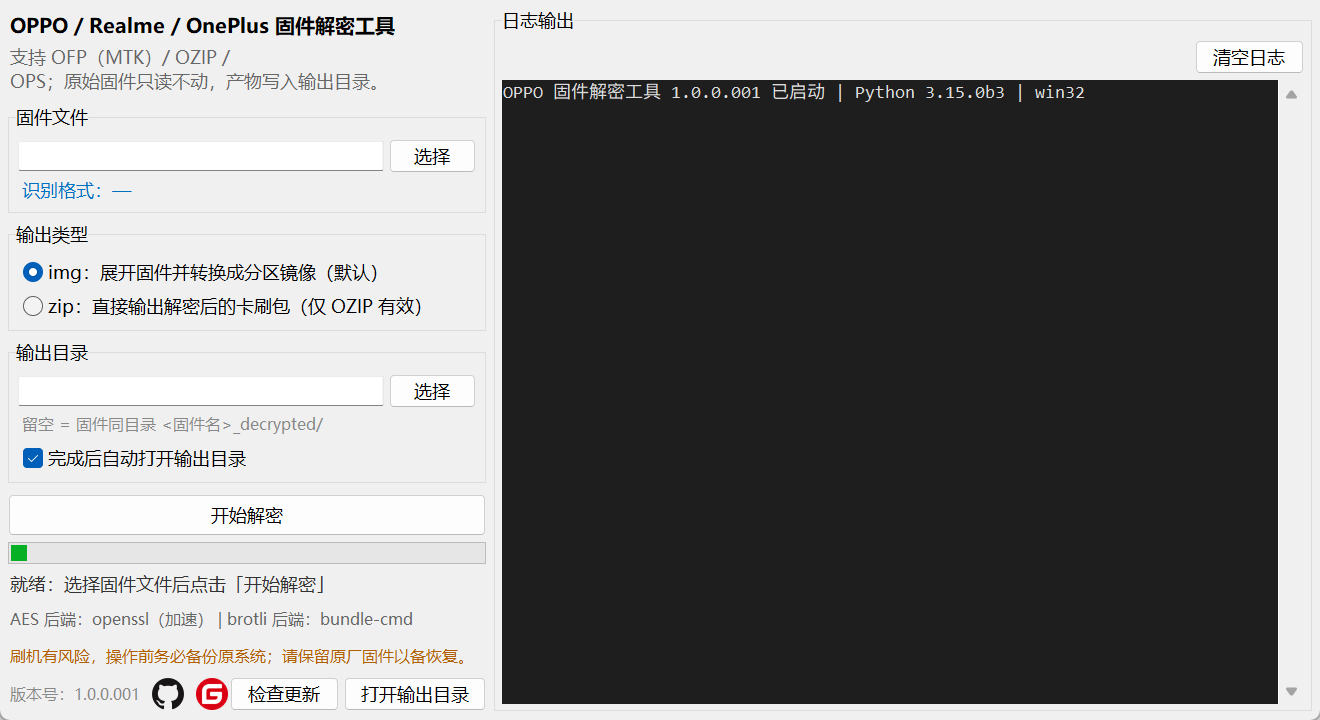
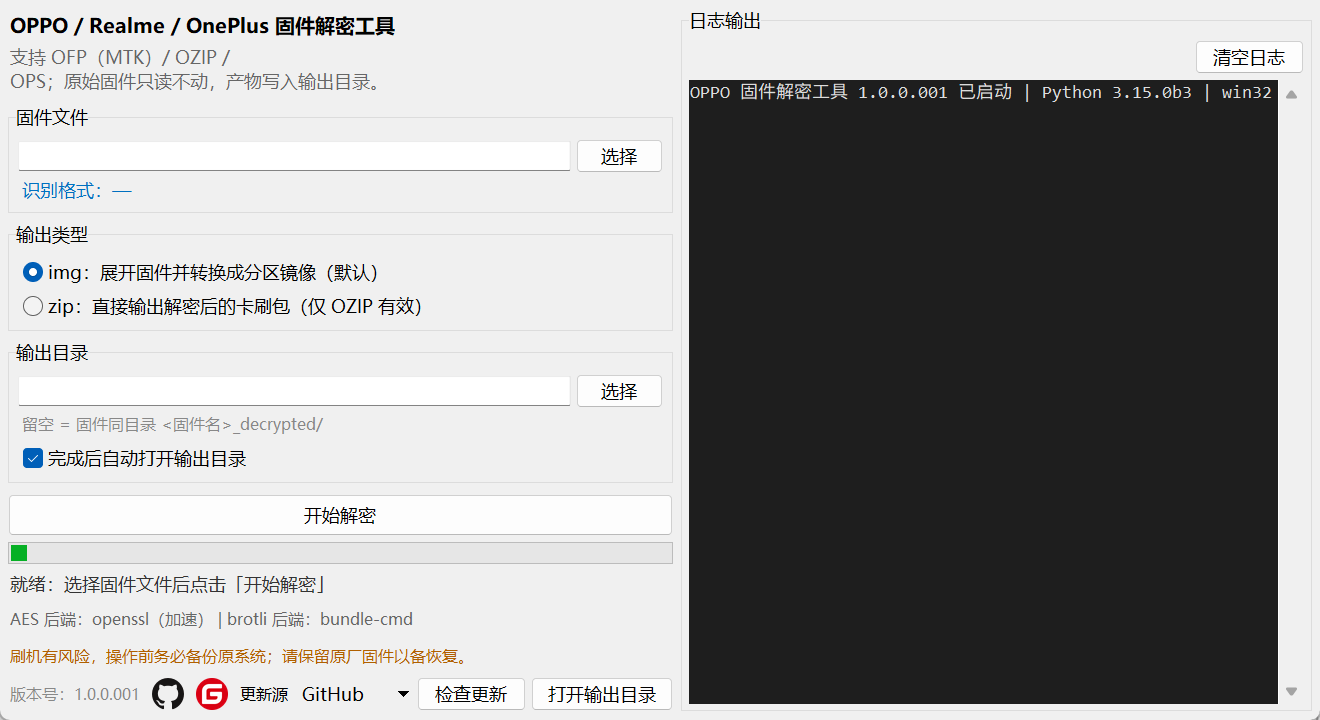
feat: 启用 GitHub/Gitee 双更新源并同步界面与文档

diff --git a/oppo-firmware-decrypt/app/updater.py b/oppo-firmware-decrypt/app/updater.py
@@ -3,12 +3,10 @@
 
 职责：网络请求、版本解析、发行说明拉取、markdown 渲染；GUI 只负责窗口与交互。
 与上游差异：
-  1. 更新源地址暂留空（GitHub 仓库尚未创建），UPDATE_ENABLED=False 时
-     fetch_update_info() 直接返回「未配置更新源」，不发任何网络请求；
+  1. GitHub 更新源已配置并启用；Gitee 地址也已按预留路径填写，仓库创建后再验证；
   2. 去掉模块级 tkinter 依赖（END 用字符串 'end'，与 tkinter.END 等价），
      让 CLI 在无 tkinter 的环境也能 import 本模块；
-  3. 仓库建立后只需填写下方 UPDATE_SOURCES 的 raw / api / contents_api，
-     并把 UPDATE_ENABLED 改为 True，其余逻辑无需改动。
+  3. 版本与下载地址来自仓库根目录 latest_version.txt，发行说明来自 Releases API。
 """
 import base64
 import json
@@ -19,11 +17,11 @@ import webbrowser
 # tkinter.END 的等价常量（避免模块级依赖 tkinter）
 END = 'end'
 
-# 更新检查总开关：仓库创建并填好地址后再打开
-UPDATE_ENABLED = False
+# 更新检查总开关：GitHub / Gitee 地址均已配置；Gitee 仓库待创建
+UPDATE_ENABLED = True
 
 # ============================================================
-# 更新源配置（创建 GitHub / Gitee 仓库后填写）
+# 更新源配置（GitHub 已启用；Gitee 地址已预留，仓库待创建）
 #   raw           latest_version.txt 的原始文件地址
 #   api           发行版 API 模板（{tag} 会被替换为版本号）
 #   contents_api  GitHub contents API（可选，绕过 CDN 缓存）
@@ -31,14 +29,14 @@ UPDATE_ENABLED = False
 # ============================================================
 UPDATE_SOURCES = {
     'GitHub': {
-        'raw': '',
-        'api': '',
-        'contents_api': '',
+        'raw': 'https://raw.githubusercontent.com/LJY-33684/oppo-firmware-decrypt/main/latest_version.txt',
+        'api': 'https://api.github.com/repos/LJY-33684/oppo-firmware-decrypt/releases/tags/{tag}',
+        'contents_api': 'https://api.github.com/repos/LJY-33684/oppo-firmware-decrypt/contents/latest_version.txt?ref=main',
         'url_key': 'update_url_1',
     },
     'Gitee': {
-        'raw': '',
-        'api': '',
+        'raw': 'https://gitee.com/Q3368436451/oppo-firmware-decrypt/raw/main/latest_version.txt',
+        'api': 'https://gitee.com/api/v5/repos/Q3368436451/oppo-firmware-decrypt/releases/tags/{tag}',
         'url_key': 'update_url_2',
     },
 }

diff --git a/oppo-firmware-decrypt/app/gui.py b/oppo-firmware-decrypt/app/gui.py
@@ -109,6 +109,7 @@ class App(tk.Tk):
         self.format_var = tk.StringVar(value='识别格式：—')
         self.backend_var = tk.StringVar(value='AES 后端：检测中… | brotli 后端：检测中…')
         self.open_after_var = tk.BooleanVar(value=True)
+        self.update_source = tk.StringVar(value=updater.DEFAULT_SOURCE)
 
         self._build_ui()
         self.protocol('WM_DELETE_WINDOW', self._on_close)
@@ -228,6 +229,15 @@ class App(tk.Tk):
         self.update_btn = ttk.Button(bottom, text='检查更新', width=9,
                                      command=self._check_update)
         self.update_btn.pack(side='right', padx=(0, 5))
+
+        # 更新源切换：GitHub / Gitee（地址已预留，Gitee 仓库待创建）
+        src_frame = ttk.Frame(bottom)
+        src_frame.pack(side='right', padx=(8, 0))
+        ttk.Label(src_frame, text='更新源', font=('Microsoft YaHei', 8)).pack(side='left')
+        self.update_source_menu = ttk.OptionMenu(
+            src_frame, self.update_source, updater.DEFAULT_SOURCE, 'GitHub', 'Gitee')
+        self.update_source_menu.configure(width=7)
+        self.update_source_menu.pack(side='left')
 
         # 风险提示（移植工具同款橙色提示，放在底部按钮上方）
         self.risk_label = ttk.Label(
@@ -418,10 +428,11 @@ class App(tk.Tk):
     # ---------------- 检查更新 ----------------
     def _check_update(self):
         self.update_btn.configure(text='检查更新中…', state='disabled')
-        threading.Thread(target=self._update_worker, daemon=True).start()
+        src = self.update_source.get()          # tkinter 变量只能在主线程读取
+        threading.Thread(target=self._update_worker, args=(src,), daemon=True).start()
 
-    def _update_worker(self):
-        result = updater.fetch_update_info(updater.DEFAULT_SOURCE)
+    def _update_worker(self, source):
+        result = updater.fetch_update_info(source)
         self.q.put(('update', result))
 
     def _on_update_result(self, result):

diff --git a/README.md b/README.md
@@ -91,12 +91,13 @@ GUI and CLI, and never modifies the source firmware.
 
 - **7. 界面细节 / UI details**
   - 底部版本号旁提供 GitHub / Gitee 图标，点击用系统浏览器打开
+  - 底部「更新源」下拉框支持 GitHub / Gitee 双源切换，默认 GitHub
   - 保留移植工具同款橙色刷机风险提示
   - 圆形蒙板窗口图标（多尺寸 ICO，圆外透明）
 
 - **8. 自检 / Self-test**
   - 15 项合成样本自检：AES 双后端、brotli、sdat2img、fsutil、单实例锁、
-    格式识别、OZIP/OFP/OPS 解密、CLI 契约、更新未配置行为、GUI 冒烟与端到端
+    格式识别、OZIP/OFP/OPS 解密、CLI 契约、更新源配置、GUI 冒烟与端到端
 
 <a name="formats"></a>
 ## 支持格式 / Supported Formats
@@ -119,7 +120,7 @@ oppo-firmware-decrypt/
 ├─ README.md                 本文件（仓库说明）
 ├─ LICENSE                   GPL-3.0 全文
 ├─ .gitignore                运行产物 / 缓存忽略规则
-├─ latest_version.txt        更新检查版本文件（更新地址暂空）
+├─ latest_version.txt        更新检查版本文件（GitHub Release 下载地址）
 └─ oppo-firmware-decrypt/    源码本体（发行 zip 的根目录即此目录）
    ├─ main.py                GUI 入口
    ├─ decrypt_cli.py         CLI 入口（外部壳调用）
@@ -128,7 +129,7 @@ oppo-firmware-decrypt/
    │  ├─ gui.py              轻量 Tk 界面（Per-Monitor V2 DPI 感知）
    │  ├─ singleton.py        单实例锁（跳转已运行窗口 / 清除残留锁）
    │  ├─ icons/              窗口图标 app.ico/app.png + GitHub / Gitee 图标
-   │  ├─ updater.py          更新检查（地址为空，默认关闭）
+   │  ├─ updater.py          更新检查（GitHub / Gitee 双源，Gitee 仓库待建）
    │  ├─ common.py           CLI / GUI 共用逻辑
    │  ├─ version.py          版本号唯一真源
    │  ├─ core/               解密核心（OFP / OZIP / OPS、brotli、sdat2img、pyaes）
@@ -163,6 +164,9 @@ run.bat          # 或：python main.py
 2. 选择输出类型：img（默认）或 zip（仅 OZIP）
 3. 选择输出目录；留空则输出到固件同级 `<固件名>_decrypted/`
 4. 点击「开始解密」，右侧日志实时显示进度
+
+底部「检查更新」支持 GitHub / Gitee 双源切换（「更新源」下拉框，默认 GitHub）；
+Gitee 仓库创建前该源不可用，先用 GitHub 源即可。
 
 ![主界面](oppo-firmware-decrypt/docs/gui-main.png)
 
@@ -229,18 +233,21 @@ python decrypt_cli.py --version
 <a name="update"></a>
 ## 更新检查 / Update Check
 
-更新模块复用自 mtk-garbage-porttool，但当前 **`UPDATE_ENABLED = False`、更新地址全部留空**。
-点击「检查更新」只提示「更新源尚未配置」，不会发出任何网络请求。
-
-GitHub 仓库已创建；待发布 Release 资产后，填写 `latest_version.txt` 的 `update_url_1` /
-`update_url_2`，并在 `app/updater.py` 的 `UPDATE_SOURCES` 填入 raw / api / contents_api 地址，
-把开关改为 `True` 即可启用。启用前不会产生任何后台网络请求。
+更新模块复用自 mtk-garbage-porttool：网络请求、`latest_version.txt` 解析、发行说明 markdown
+渲染与 GUI 弹窗全部保留。当前 **`UPDATE_ENABLED = True`，GitHub 更新源已配置**：
+`raw` 指向仓库 `main` 分支的 `latest_version.txt`，`api` 指向 Releases API，
+`contents_api` 用于绕过 CDN 缓存；`latest_version.txt` 的 `update_url_1` 已指向
+GitHub `1.0.0.001` Release 资产，`update_url_2` 已按 Gitee 同版本路径预留。GUI 底部
+「更新源」下拉框可在 GitHub / Gitee 间切换，默认 GitHub；Gitee 仓库尚未创建，建仓前该源不可用。
 
 <a name="release"></a>
 ## 发行包 / Release Package
 
 发行资产命名：`oppo-firmware-decrypt-1.0.0.001.zip`，zip 内根目录为 `oppo-firmware-decrypt/`，
-解压后可直接 `run.bat` 启动。打包命令：
+解压后可直接 `run.bat` 启动。当前发布页：
+[`1.0.0.001`](https://github.com/LJY-33684/oppo-firmware-decrypt/releases/tag/1.0.0.001)。
+
+打包命令：
 
 ```bash
 cd oppo-firmware-decrypt
@@ -273,8 +280,9 @@ A：未指定时在固件同目录 `<固件名>_decrypted/`；目录已存在且
 **Q：为什么选择 zip 但 OFP / OPS 仍输出 img？**
 A：只有 OZIP 有卡刷包形态；OFP / OPS 是分区镜像包，选择 zip 会提示后按 img 处理。
 
-**Q：检查更新提示“更新源尚未配置”？**
-A：这是预期行为。更新地址暂未填写，开关为关闭状态，不会发出网络请求。
+**Q：检查更新提示网络错误 / 超时？**
+A：更新检查现在支持 GitHub / Gitee 双源，默认 GitHub。若网络无法访问对应站点，会提示网络错误或超时；
+Gitee 地址已预留，但仓库尚未创建，建仓前切换过去会失败，先用 GitHub 源即可。
 
 **Q：重复启动提示已有实例，但我确认没开？**
 A：上次进程可能被强制结束留下状态锁。点「清除状态锁」继续，或直接删除源码根目录
@@ -303,7 +311,7 @@ risk; the developers assume no responsibility for damage, data loss, or warranty
   - 单实例锁：跳转已运行窗口 / 清除残留锁 / 强杀残留自动接管
   - 底部 GitHub / Gitee 图标与橙色刷机风险提示
   - 圆形蒙板多尺寸窗口 ICO
-  - 更新检查框架复用，地址留空、默认关闭
+  - 更新检查接入 GitHub Release，预先填好 Gitee 同版本地址，GUI 支持双源切换
 
 <a name="contact"></a>
 ## 联系 / Contact

diff --git a/oppo-firmware-decrypt/README.md b/oppo-firmware-decrypt/README.md
@@ -74,7 +74,7 @@ oppo-firmware-decrypt/（源码子目录）
 │  ├─ gui.py                轻量 Tk 界面（Per-Monitor V2 DPI 感知）
 │  ├─ singleton.py          单实例锁（跳转已运行窗口 / 清除残留锁）
 │  ├─ icons/                窗口图标 app.ico/app.png + GitHub / Gitee 图标
-│  ├─ updater.py            更新检查模块（地址暂空，见下）
+│  ├─ updater.py            更新检查模块（GitHub / Gitee 双源，见下）
 │  ├─ common.py             CLI/GUI 共用（默认输出目录等）
 │  ├─ version.py            版本号唯一真源
 │  ├─ core/                 解密核心包
@@ -114,16 +114,17 @@ python app/tests/selftest.py
 
 用合成样本覆盖：AES 双后端一致性、brotli 解压、sdat2img 转换、格式识别、
 加密 OZIP 全链路、明文 OZIP、OFP 分区导出、OPS settings.xml 解密（MBox5）、
-CLI 契约、更新模块未配置行为、GUI 构建与端到端解密。
+CLI 契约、更新源配置、GUI 构建与端到端解密。
 无 Tcl/Tk 的 Python 会自动跳过 GUI 两项并标注 SKIP。
 
 ## 更新检查
 
 `app/updater.py` 复用自 mtk-garbage-porttool：网络请求、`latest_version.txt` 解析、
-发行说明 markdown 渲染、GUI 弹窗全部保留。**当前 `UPDATE_SOURCES` 的地址为空，
-`UPDATE_ENABLED = False`**，点击「检查更新」只会提示「更新源尚未配置」，不会发任何网络请求。
-GitHub 仓库已创建；发布 Release 资产后，填入 raw / api 地址并把开关改为 `True` 即可启用，其余逻辑无需改动。
-`latest_version.txt` 已按版本号 1.0.0.001 预置在仓库根目录，发布时补上两个下载地址即可。
+发行说明 markdown 渲染、GUI 弹窗全部保留。**当前 `UPDATE_ENABLED = True`，GitHub 更新源已配置**：
+`raw` 指向仓库 `main` 分支的 `latest_version.txt`，`api` 指向 Releases API，
+`contents_api` 用于绕过 CDN 缓存；`latest_version.txt` 的 `update_url_1` 已指向
+GitHub `1.0.0.001` Release 资产，`update_url_2` 已按 Gitee 同版本路径预留。GUI 底部
+「更新源」下拉框可在 GitHub / Gitee 间切换，默认 GitHub；Gitee 仓库尚未创建，建仓前该源不可用。
 
 ## 已知边界
 

diff --git a/oppo-firmware-decrypt/docs/INTERFACE.md b/oppo-firmware-decrypt/docs/INTERFACE.md
@@ -81,4 +81,4 @@ int code = p.waitFor();   // 0/1/2 按上表判断
 
 - 版本号唯一真源为 `app/version.py`，`--version` 与 GUI 标题一致。
 - 本接口为对外契约：新增功能优先以可选参数加入，不改变既有参数名、语义与退出码含义。
-- 更新检查不在 CLI 契约内（GUI 专用，且当前未配置更新源）。
+- 更新检查不在 CLI 契约内（GUI 专用；GitHub / Gitee 双源，Gitee 仓库待创建）。
